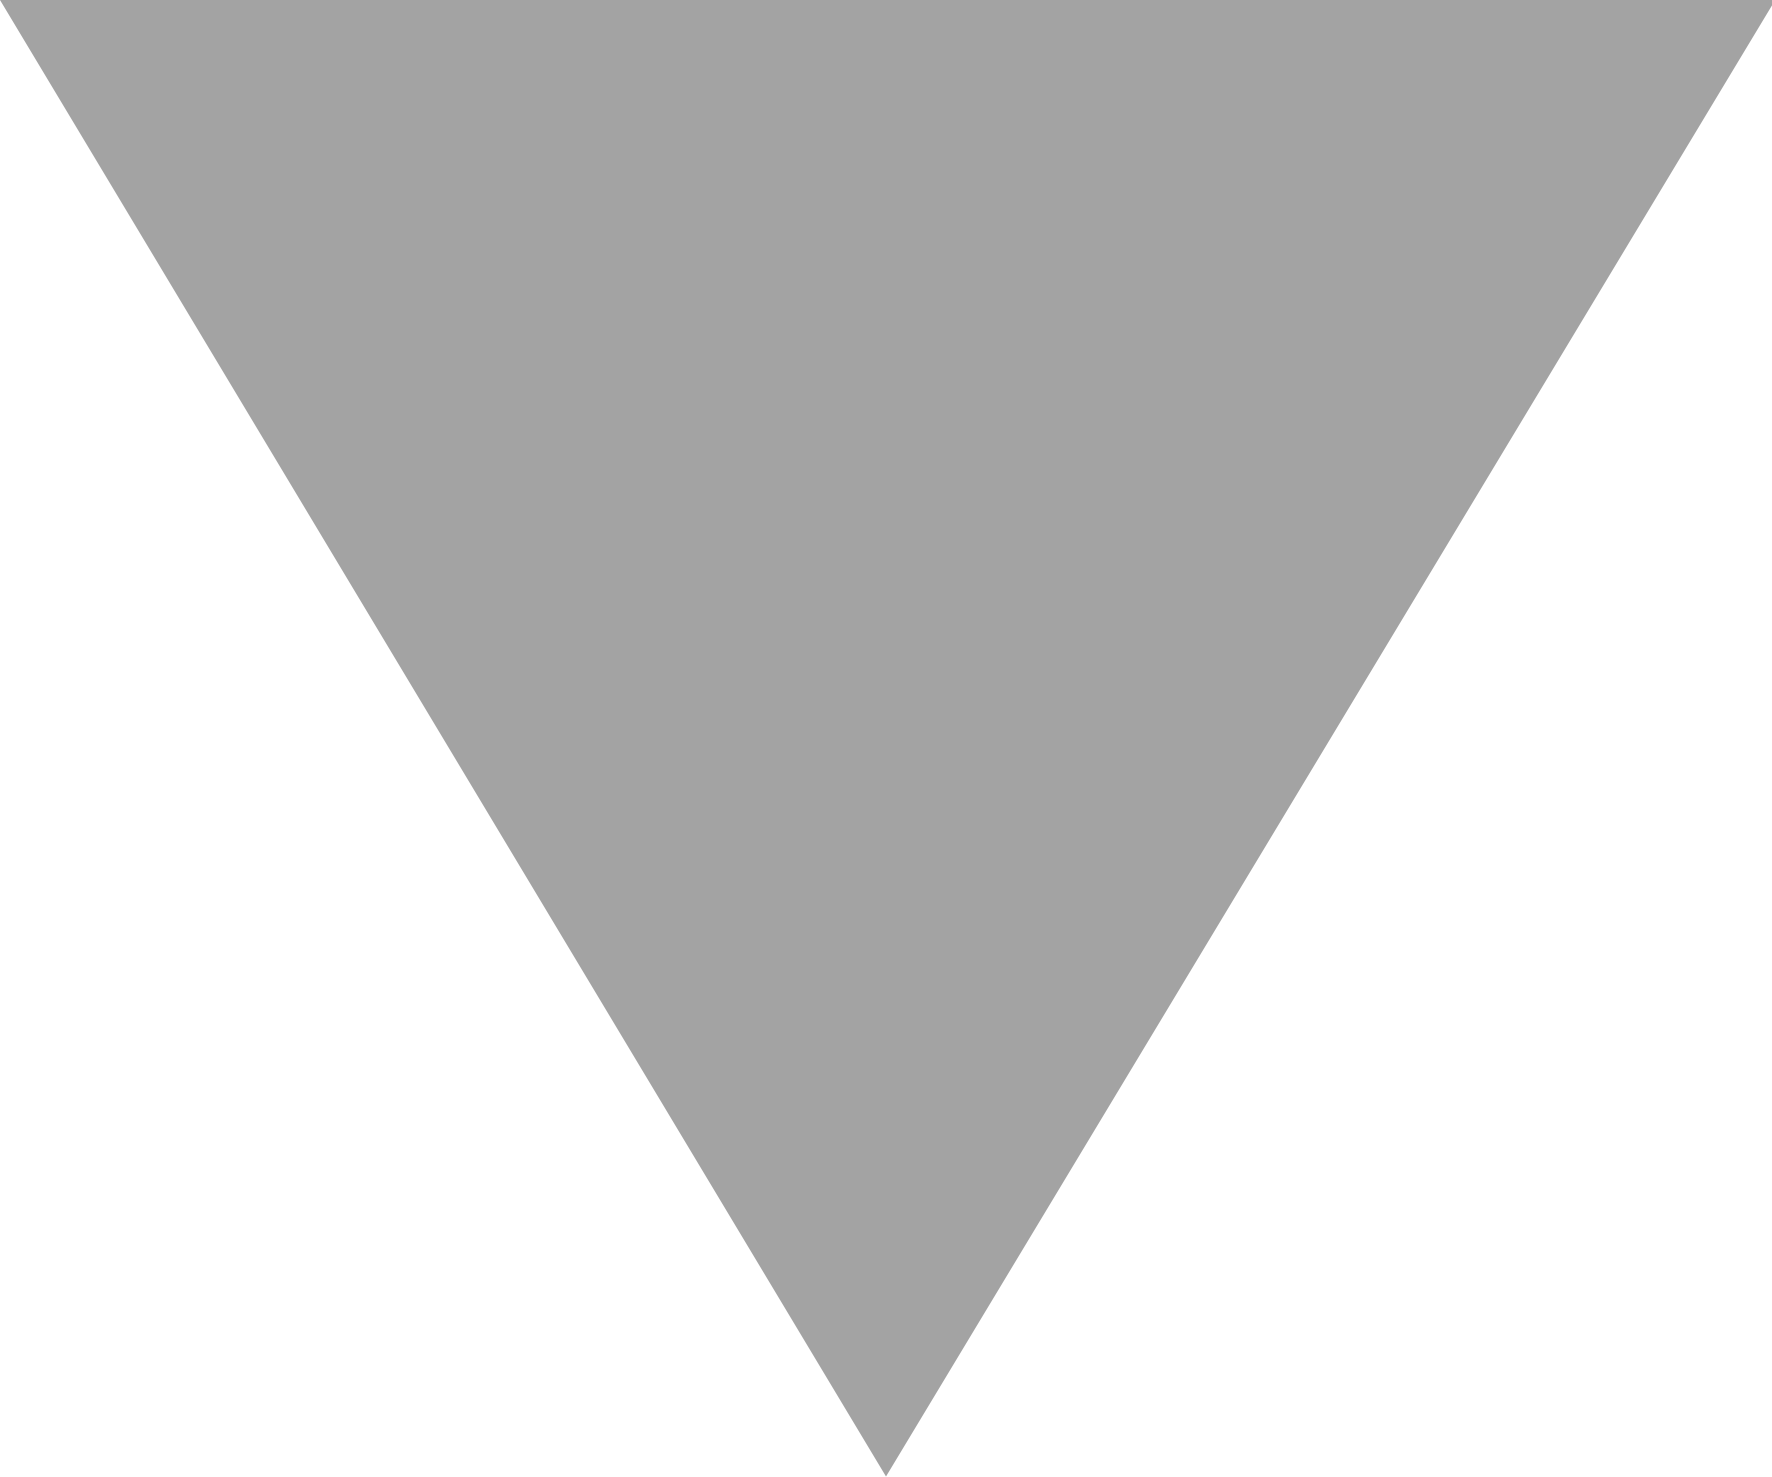
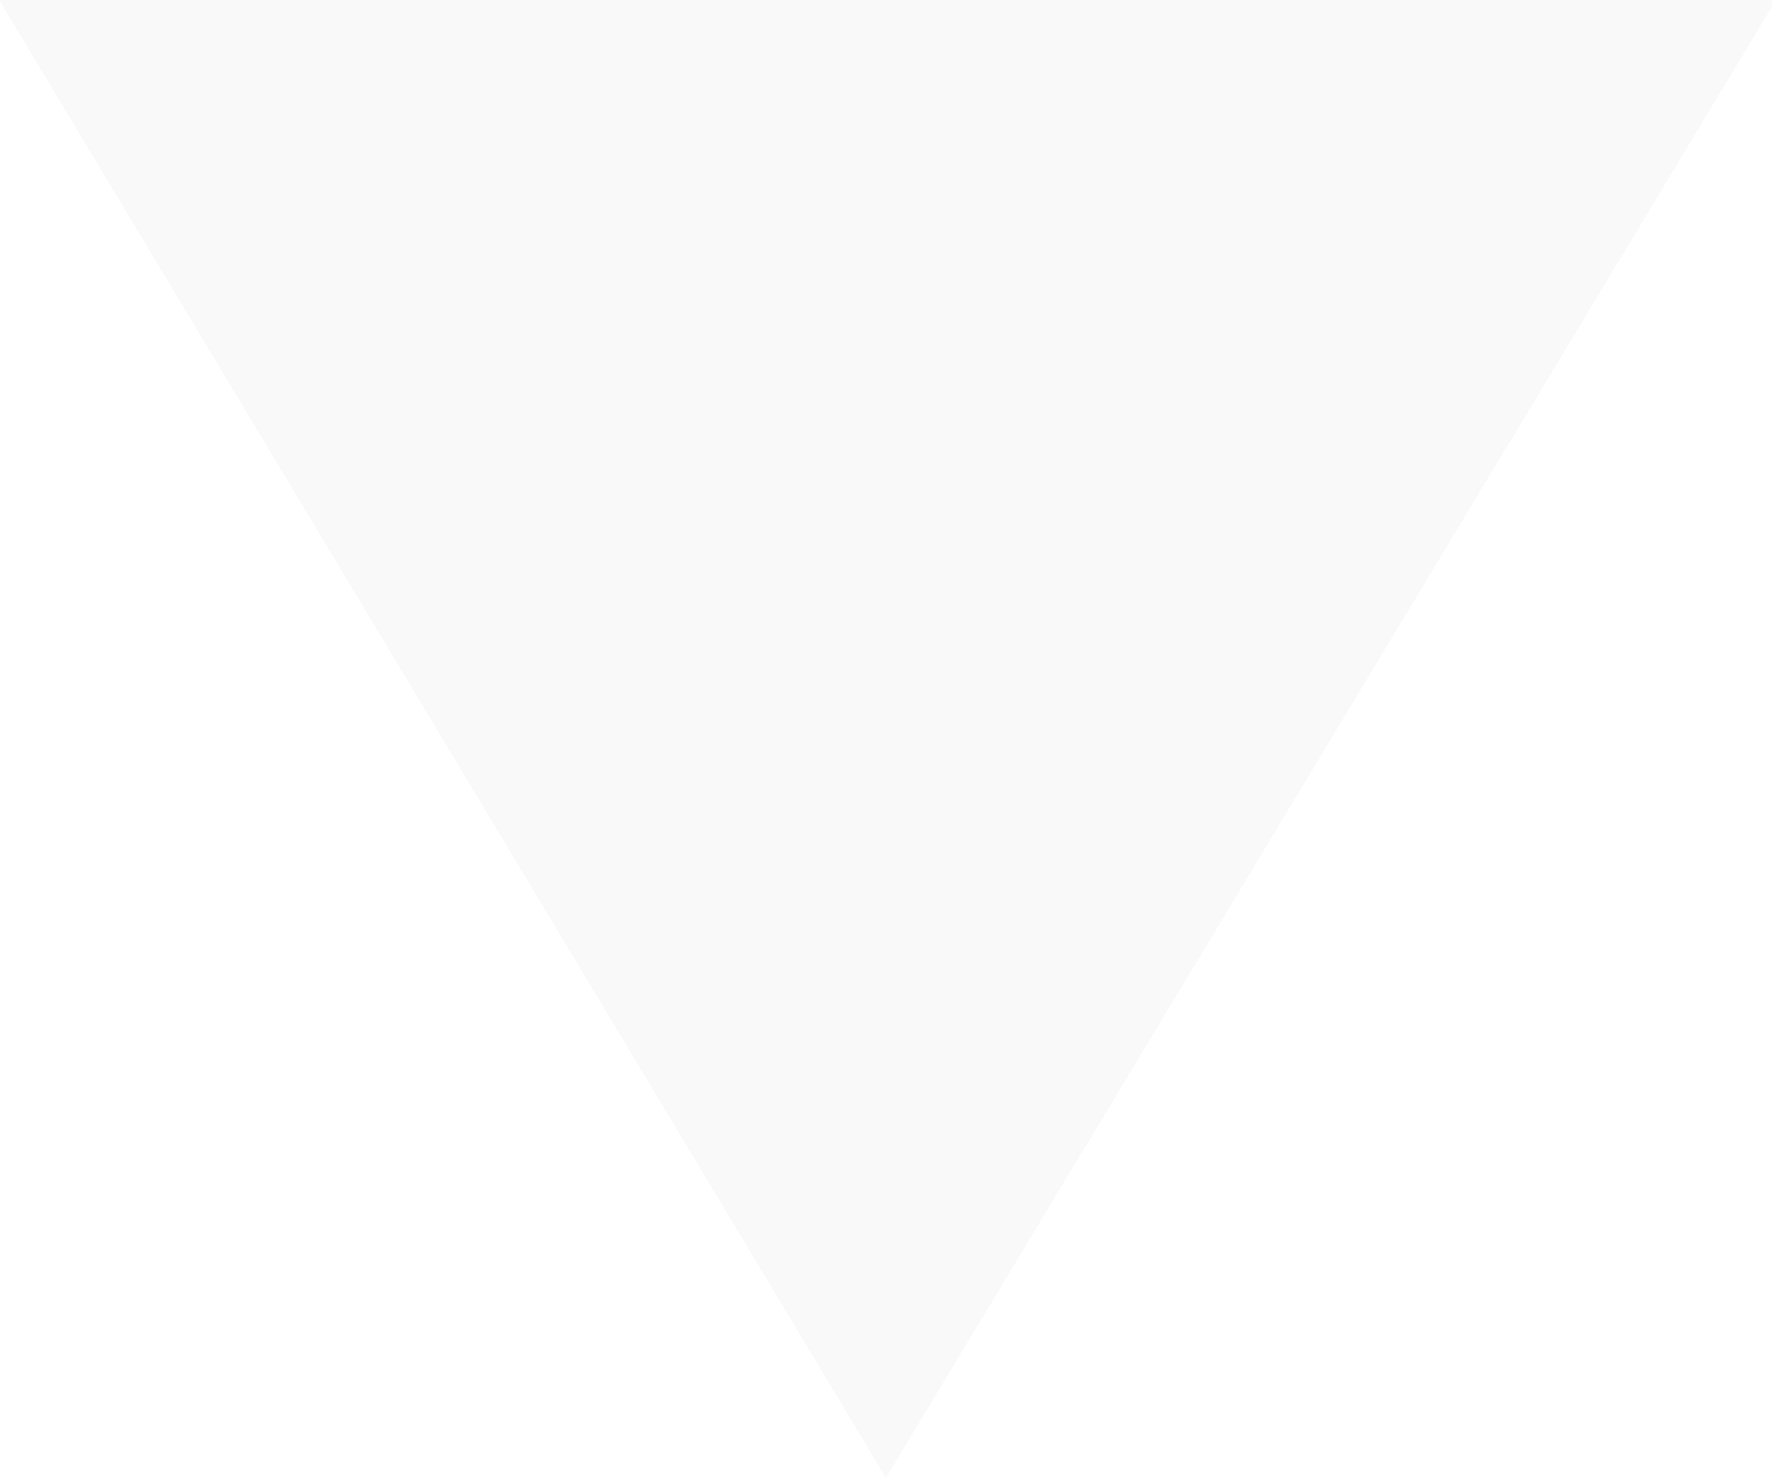
change smoke and engine colors

diff --git a/style/style.css b/style/style.css
@@ -938,7 +938,7 @@ main section.me {
     transform: translate(-50%, 0);
     height: 100vh;
     width: 20px;
-    background-color: #ccc;
+    background: linear-gradient(90deg, rgba(246, 246, 246, 0) 0%, rgba(212, 212, 212, 1) 50%, rgba(244, 244, 244, 0) 100%);
     animation: engineSmoke .5s infinite;
   }
 
@@ -1017,7 +1017,7 @@ main section.me {
     transform: translate(-50%, 0);
     height: 100vh;
     width: 20px;
-    background-color: #ccc;
+    background: linear-gradient(90deg, rgba(246, 246, 246, 0) 0%, rgba(212, 212, 212, 1) 50%, rgba(244, 244, 244, 0) 100%);
     animation: engineSmoke .5s infinite;
   }
 
@@ -1148,7 +1148,7 @@ main section.me {
     transform: translate(-50%, 0);
     height: 100vh;
     width: 20px;
-    background-color: #ccc;
+    background: linear-gradient(90deg, rgba(246, 246, 246, 0) 0%, rgba(212, 212, 212, 1) 50%, rgba(244, 244, 244, 0) 100%);
     animation: engineSmoke .5s infinite;
   }
 
@@ -1217,10 +1217,31 @@ main section.me {
     width: 170px;
   }
 
+  main section.me div.rocket div.engineSmoke {
+    position: absolute;
+    top: 200px;
+    left: 50%;
+    transform: translate(-50%, 0);
+    height: 100vh;
+    width: 30px;
+  }
+
+  @keyframes engineSmoke {
+    0% {}
+
+
+    60% {
+      width: 28px;
+    }
+
+    100% {}
+
+  }
 
   div.engineSmoke img.engineFire {
     height: 15%;
     top: 20%;
+
   }
 
   img.greyClouds {
